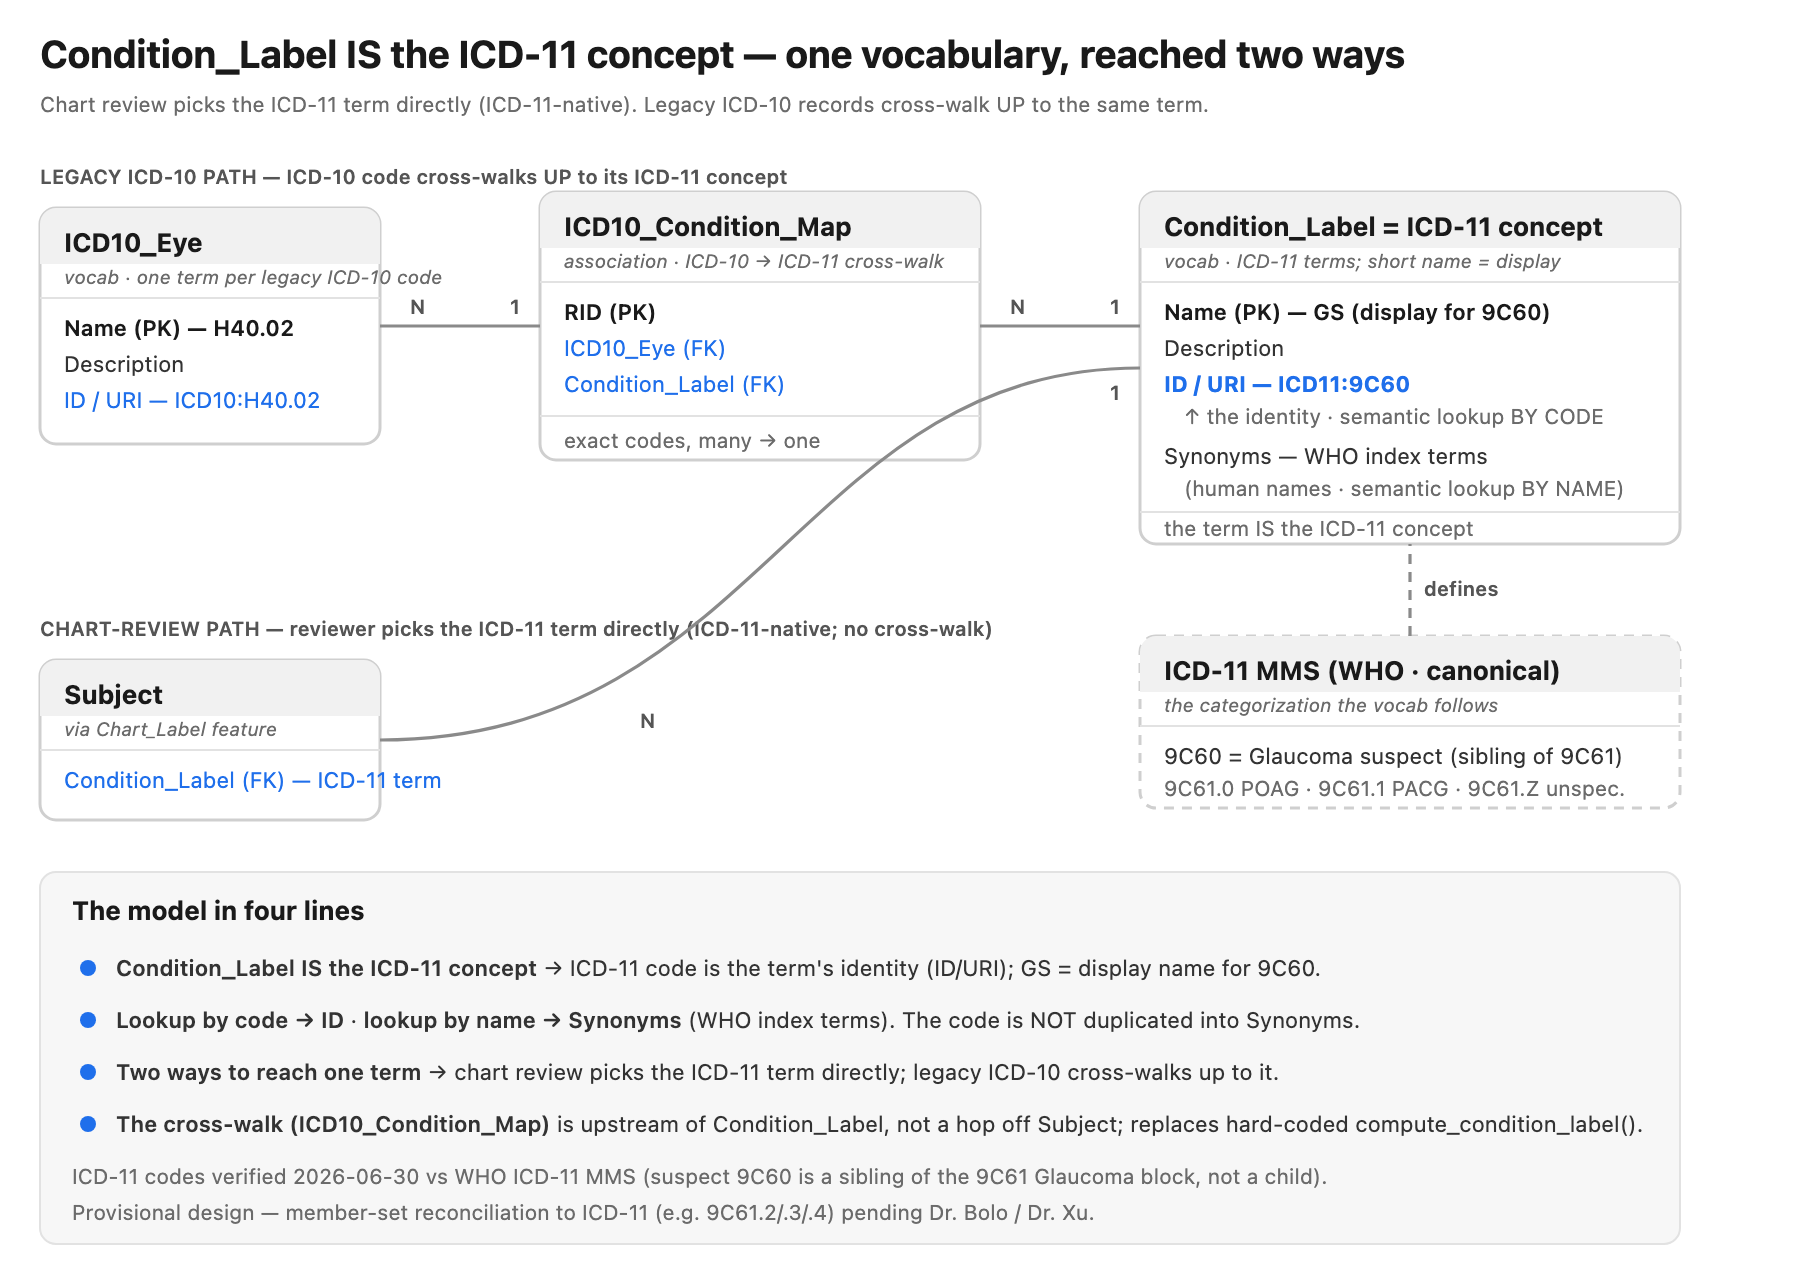
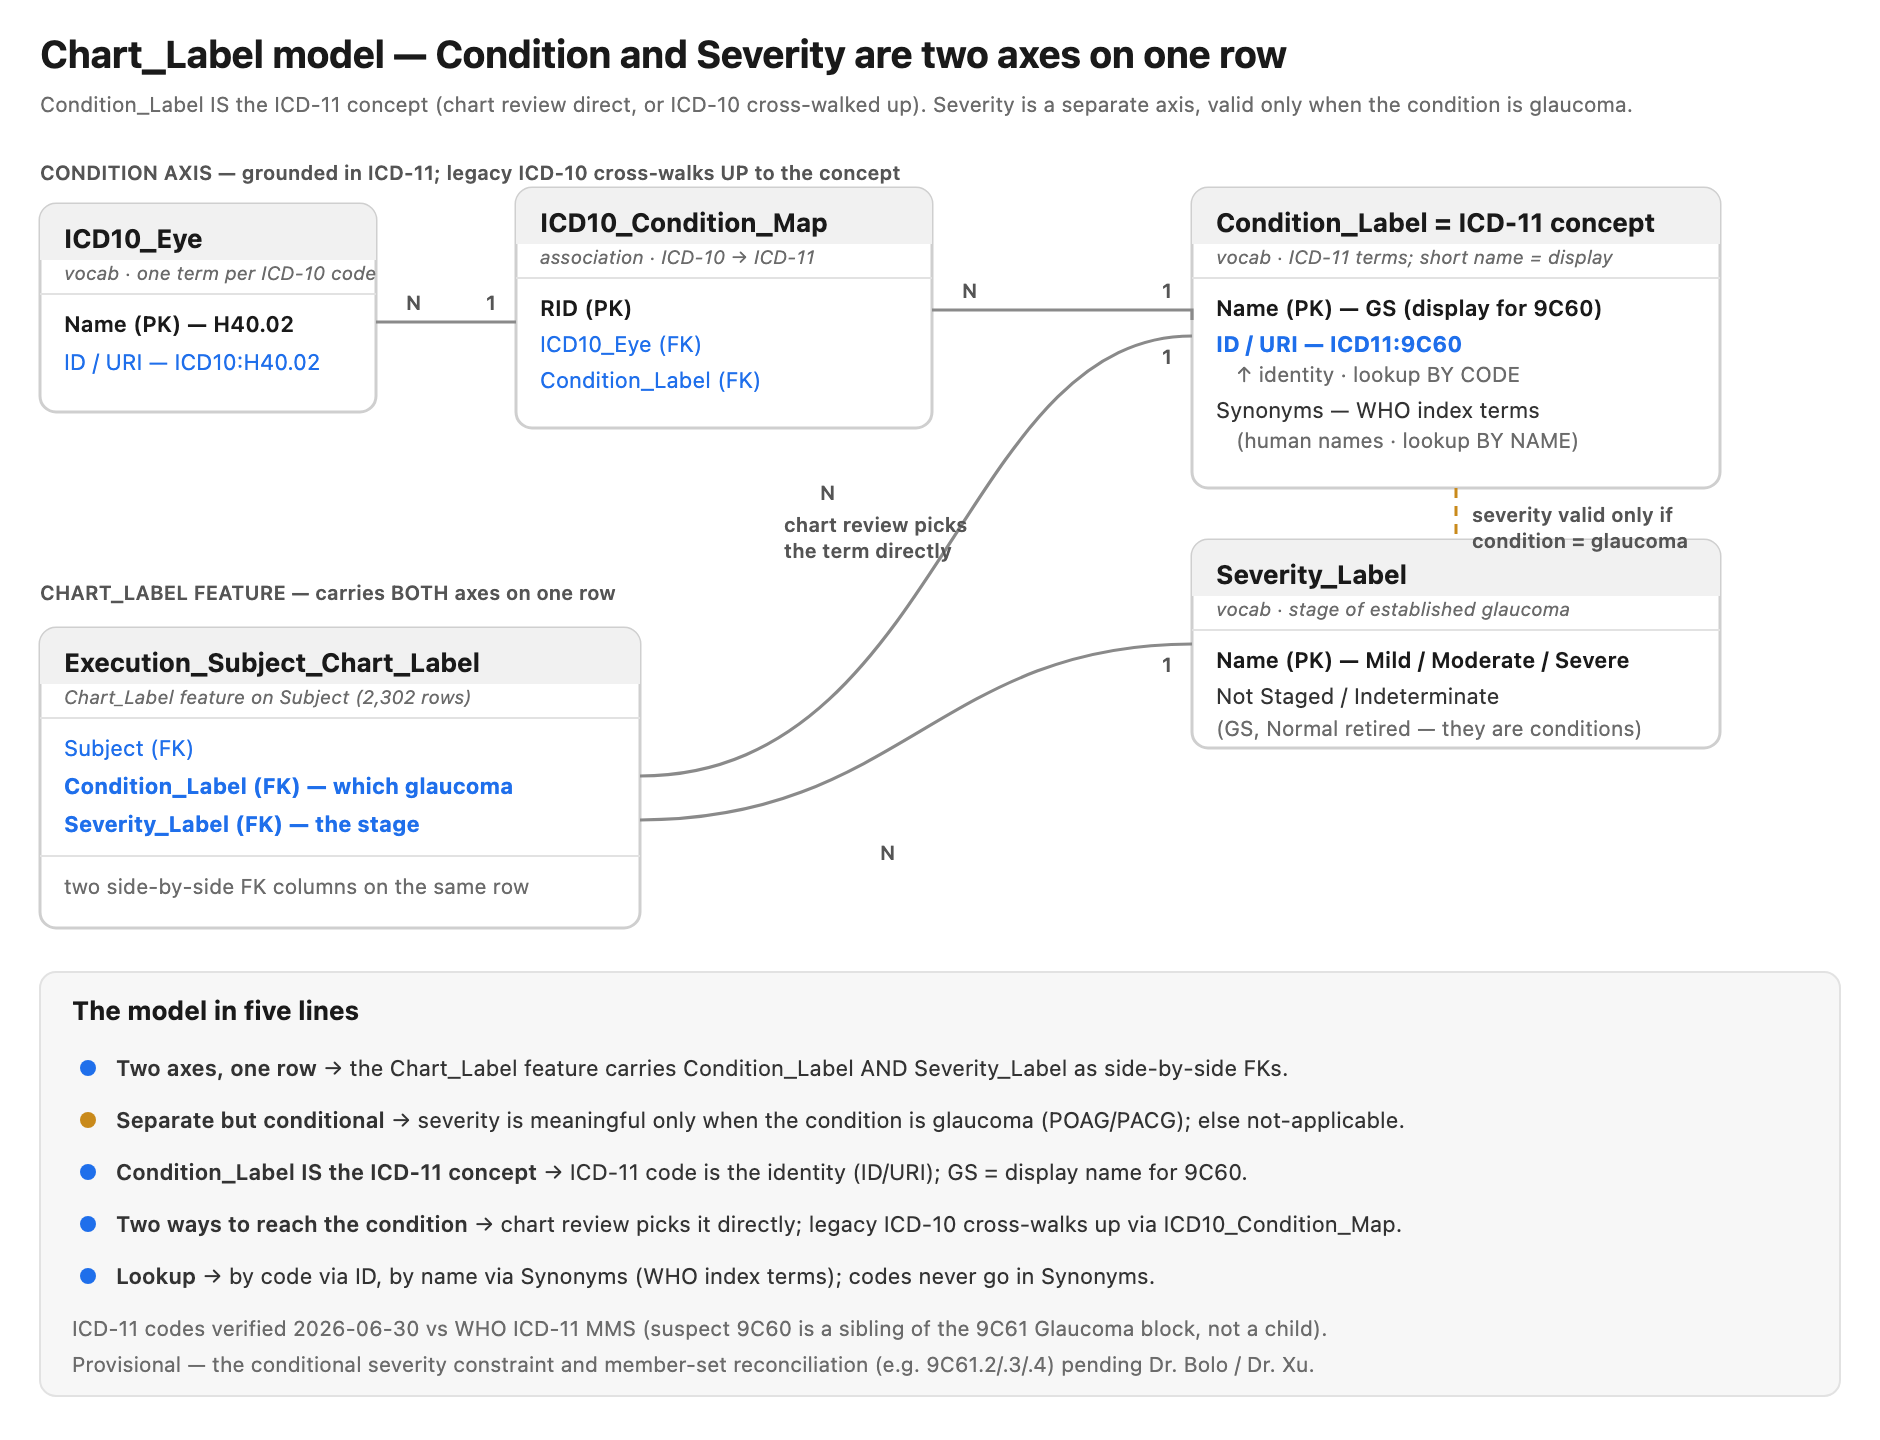
docs: add Severity_Label axis to the ERD
The ERD showed only the condition/ICD side, omitting Severity_Label — but the
core model (Sections 5.1-5.3) is that Condition and Severity are two side-by-side
FK axes on the Chart_Label feature row, with severity conditional on the
condition being glaucoma.

- Redraw the ERD: the Chart_Label feature (Execution_Subject_Chart_Label) now
  carries BOTH Condition_Label and Severity_Label FKs; Severity_Label added as
  its own vocab; the "severity valid only if condition = glaucoma" constraint
  shown as a dashed link.
- Retitle to "Chart_Label model — Condition and Severity are two axes on one
  row"; update caption/alt-text; add a forward pointer from 5.3 to Figure 1.

No Condition_Severity table exists — severity is a second column on the feature
row, not a separate association. Regenerated PNG from SVG.

diff --git a/tacit-knowledge.md b/tacit-knowledge.md
@@ -308,6 +308,20 @@ replacement for `compute_condition_label()`'s hard-coded `icd_mapping`
 (`H40.0x→GS`, `H40.1x→POAG`, `H40.2→PACG`, else `Other`), moving that logic out
 of Python and into `data-curation`-managed data.
 
+**ERD scope — must show BOTH axes, not just condition.** (Prof. Carl caught this.)
+The first ERD drew only the condition/ICD side and omitted `Severity_Label`
+entirely — but the doc's core model (§5.1–§5.3) is that Condition and Severity are
+two side-by-side FK axes on the `Chart_Label` feature row
+(`Execution_Subject_Chart_Label`), with severity conditional on the condition
+being glaucoma. A figure sitting after that model that shows only one axis reads as
+incomplete. Fix: the ERD now shows the Chart_Label feature carrying BOTH
+`Condition_Label` and `Severity_Label` FKs, `Severity_Label` as its own vocab, and
+the orange "severity valid only if condition = glaucoma" constraint (§5.2). There
+is NO `Condition_Severity` table — severity is a second column on the feature row,
+not a separate association. Figure lives in §5.7 (after ICD grounding is
+explained) with a forward pointer from §5.3, to avoid showing ICD-11 codes before
+§5.6 introduces them.
+
 **Placement — the map is upstream of `Condition_Label`, not a hop off the
 Subject.** Two paths populate `Condition_Label`, and the map is only on one of
 them. (1) *Chart-review path*: Subject → `Chart_Label` feature

diff --git a/docs/design/diagnosis-severity-definitions.md b/docs/design/diagnosis-severity-definitions.md
@@ -301,6 +301,10 @@ null/not-applicable otherwise, or a constraint/validation at write time in the
 `Chart_Label` and `Glaucoma_Severity` features. This is a `data-curation` change,
 out of scope for this document beyond recording the intent.
 
+The **ERD in §5.7 (Figure 1)** shows this whole model — both axes on the
+`Chart_Label` row, the conditional severity constraint, and the ICD grounding of
+`Condition_Label` — once the ICD pieces (§5.6) are in place.
+
 ### 5.4 Define terms clinically, not by how the label was produced
 
 A term's definition must describe **the eye**, never the mechanism that assigned
@@ -428,10 +432,11 @@ crosswalk itself are in the §5.6 mapping table; this section does not restate t
 | `ICD10_Eye` | one term per legacy ICD-10 code | `ID`/`URI` = that ICD-10 code |
 | `ICD10_Condition_Map` *(new, association)* | **ICD-10 → ICD-11 cross-walk** | FKs: `ICD10_Eye` → `Condition_Label` |
 
-![ERD — Condition_Label IS the ICD-11 concept; chart review picks the ICD-11 term directly while legacy ICD-10 records cross-walk up to the same term.](img/icd11-condition-erd.png)
+![ERD — the Chart_Label feature carries Condition_Label and Severity_Label as two side-by-side axes on one row; Condition_Label is the ICD-11 concept (chart review picks it directly, legacy ICD-10 cross-walks up), and severity is valid only when the condition is glaucoma.](img/icd11-condition-erd.png)
 
-*Figure 1 — ERD for the ICD-11 coding model. Source:
-[`img/icd11-condition-erd.svg`](img/icd11-condition-erd.svg).*
+*Figure 1 — the full Chart_Label model: the two axes (condition + severity, §5.1–§5.3),
+the ICD-11 grounding of `Condition_Label` (§5.6), and the ICD-10→ICD-11 cross-walk
+(this section). Source: [`img/icd11-condition-erd.svg`](img/icd11-condition-erd.svg).*
 
 **Why a cross-walk table (not more columns).** The ICD-10 side at exact-code
 granularity is *many* codes per concept (`H40.00`–`H40.06` all → `GS`) — a